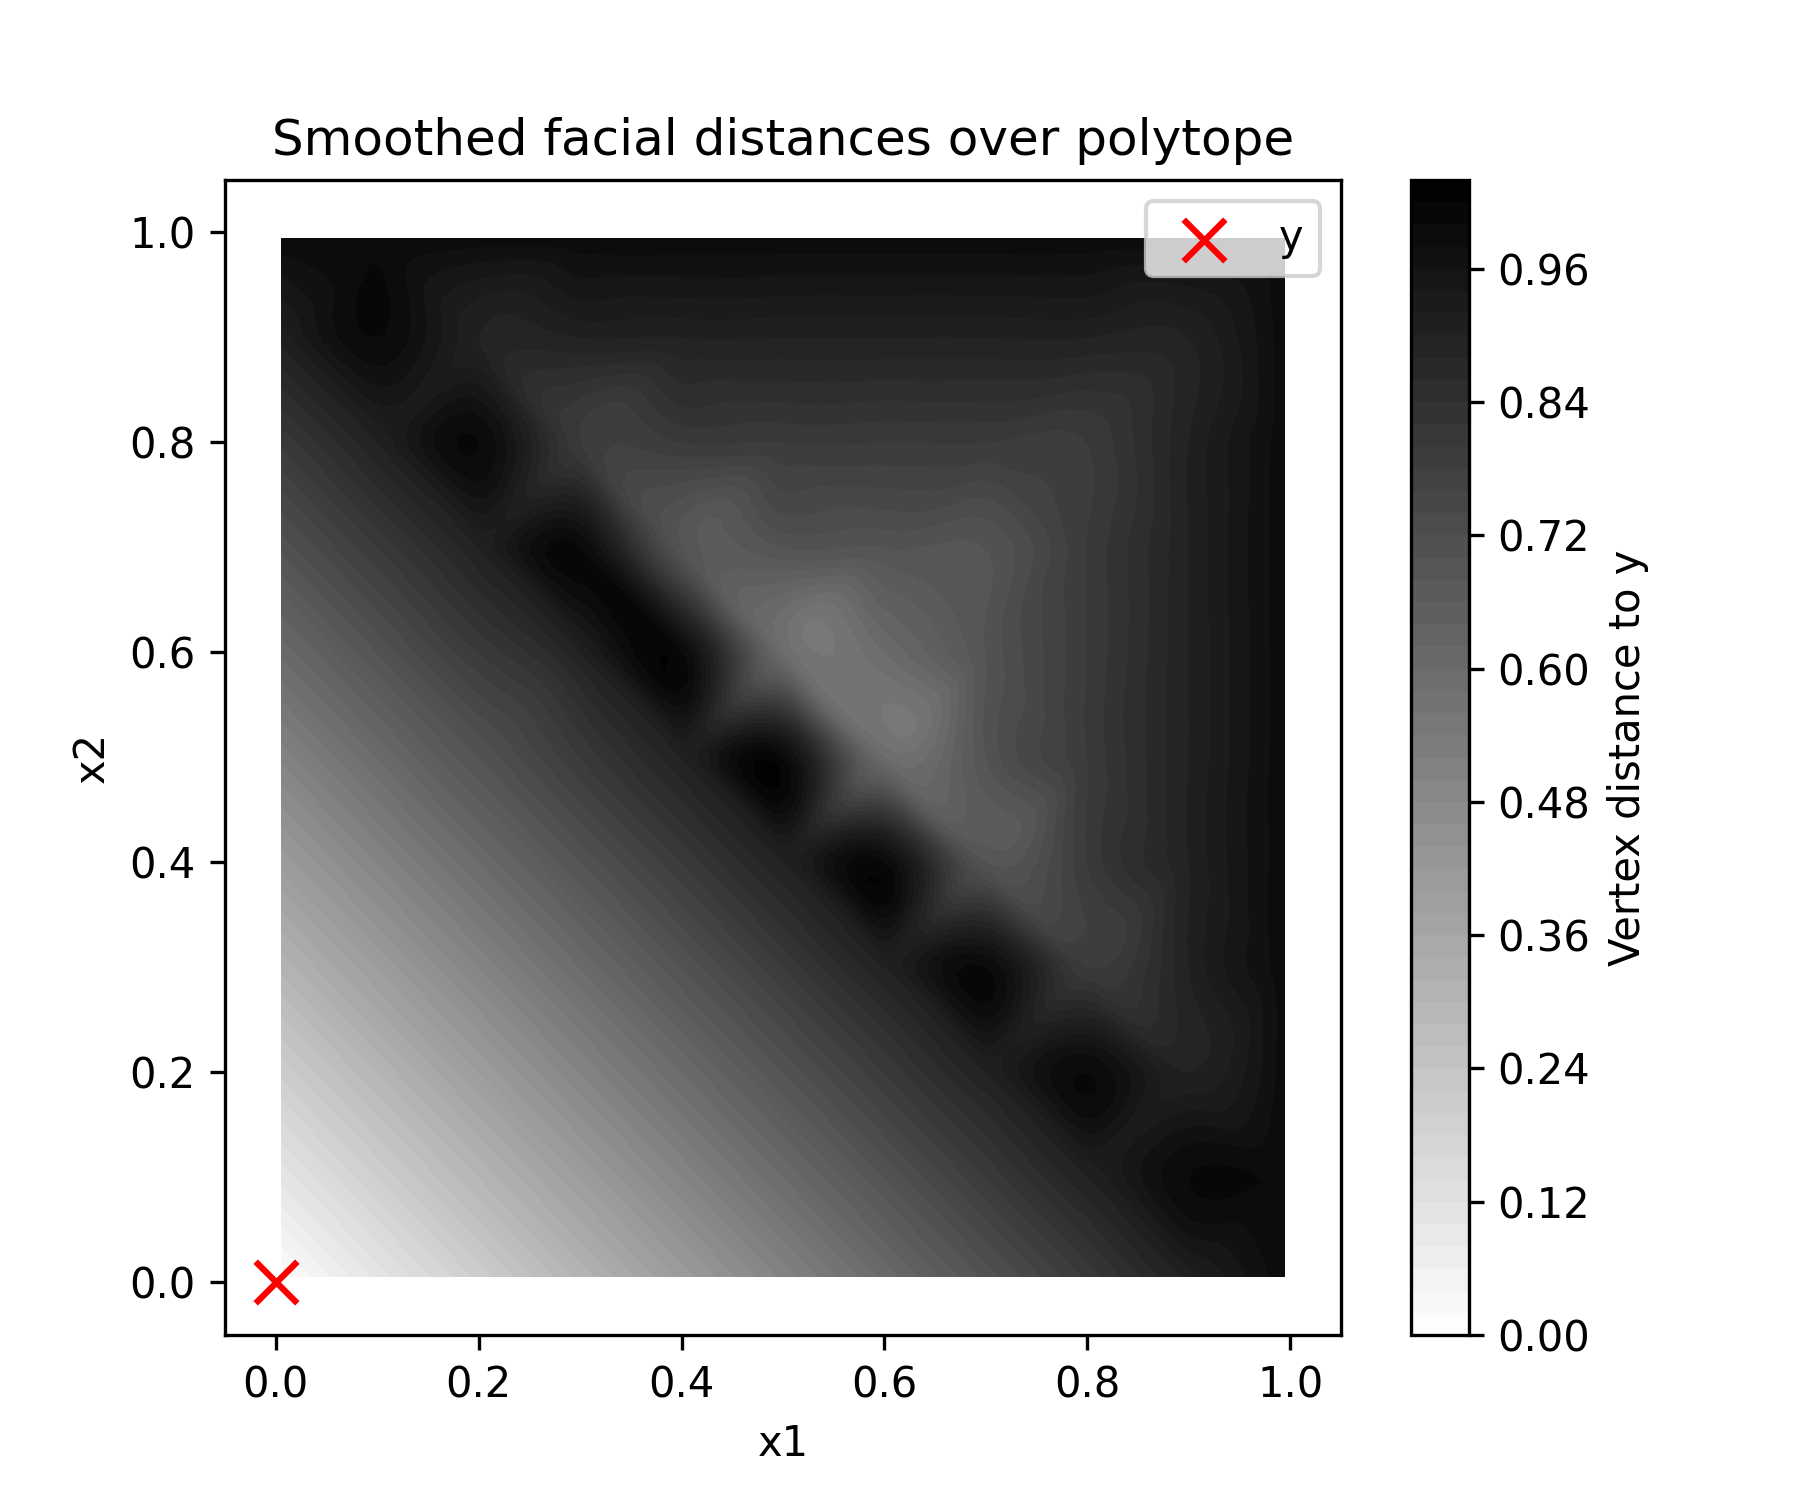
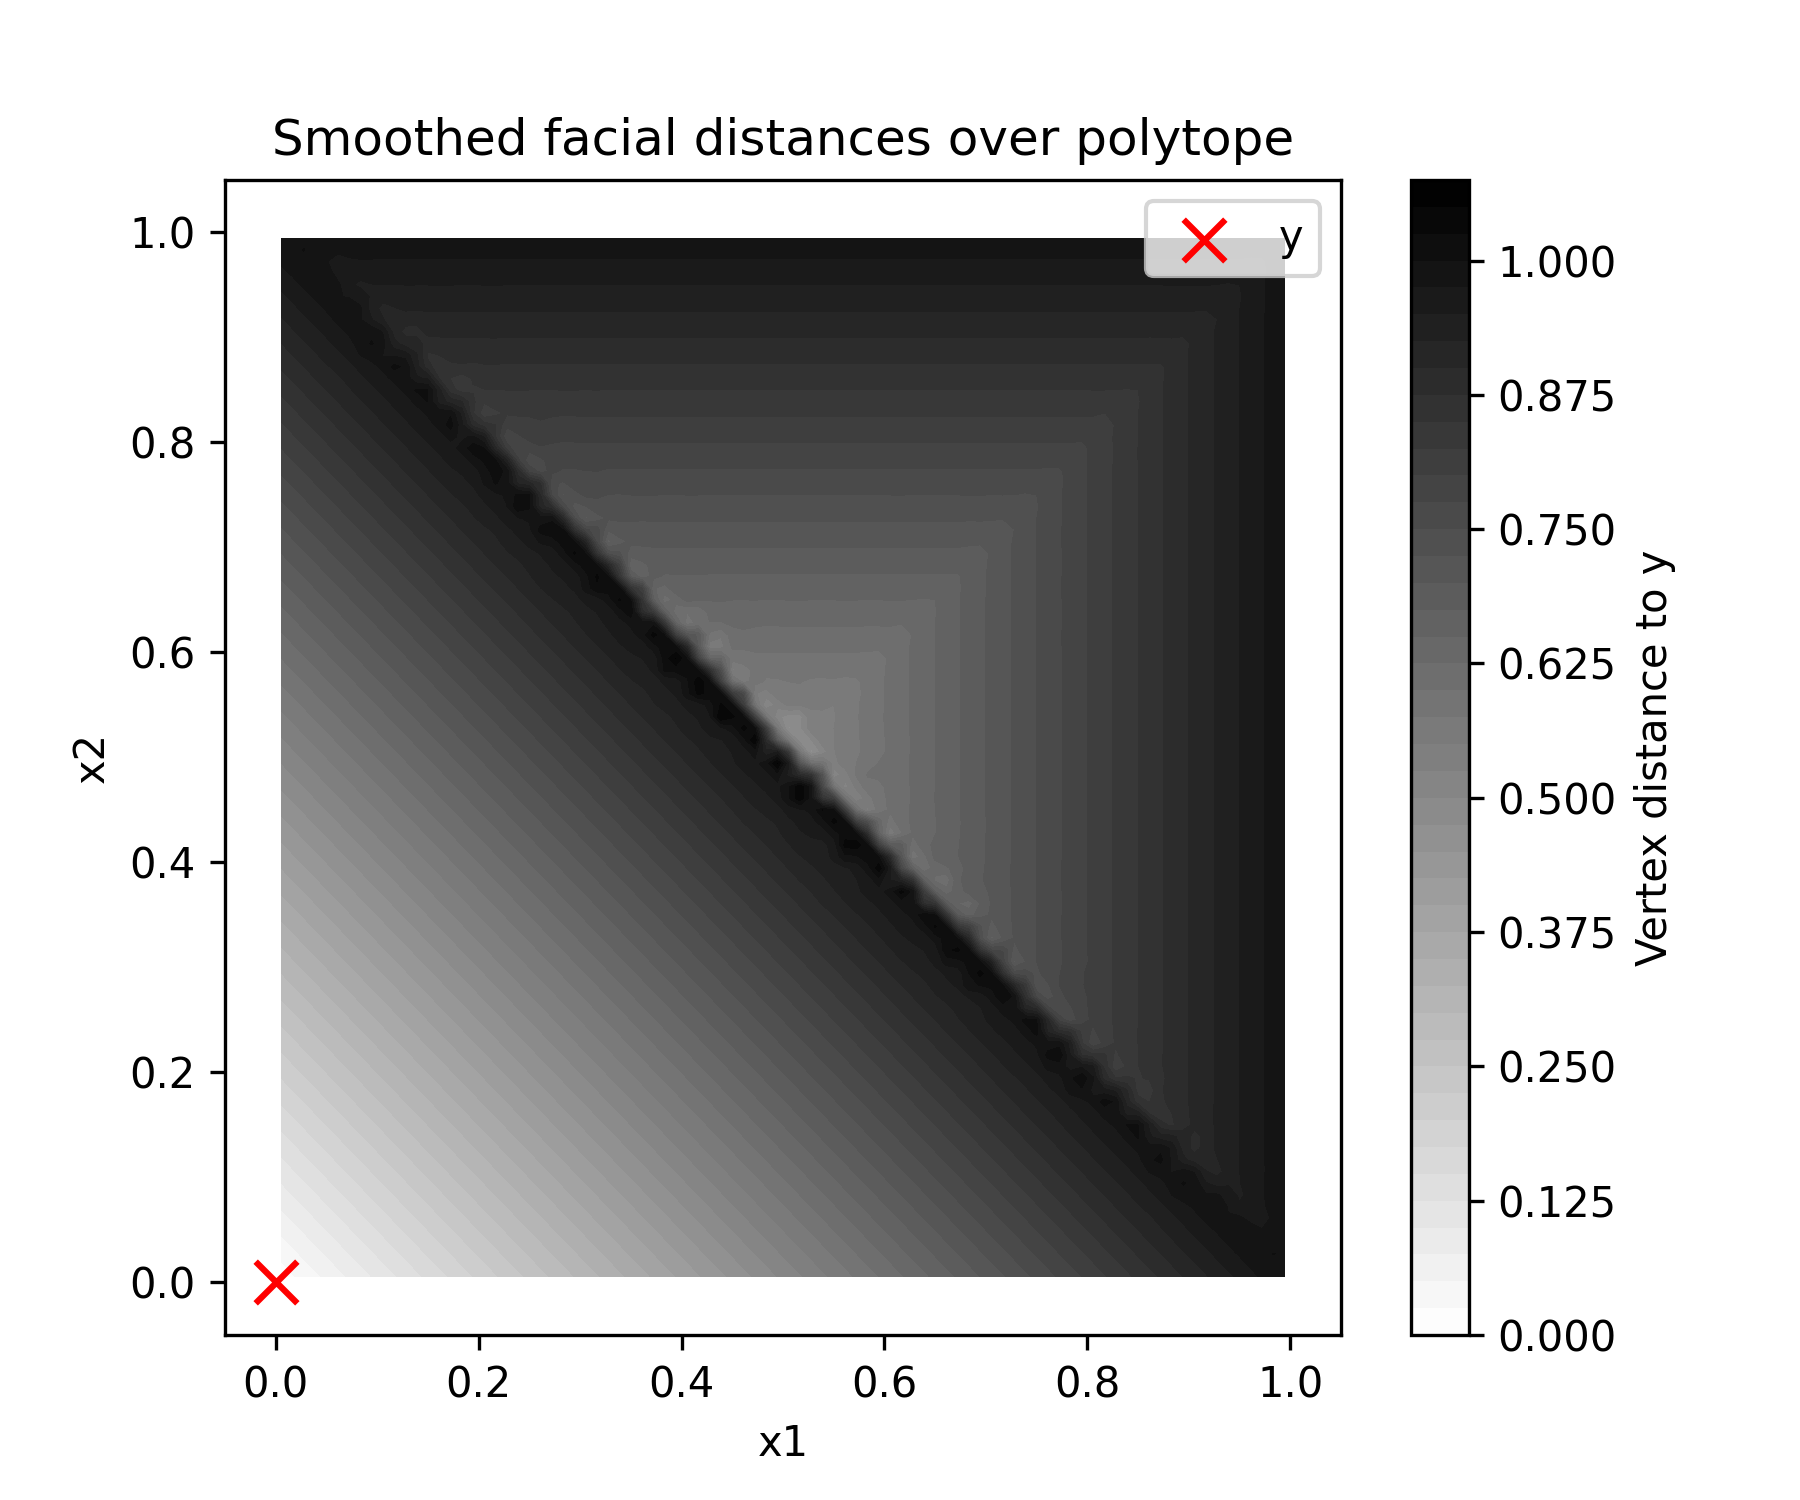
boolean hypercube experiment ready

diff --git a/boolean_hypercube.py b/boolean_hypercube.py
@@ -1,19 +1,20 @@
 import numpy as np
 import sys
 from pathlib import Path
-
-# access the code
 sys.path.append((str(Path.cwd() / "src")))
 from polytope import Polytope
 from plotting_utils import save_plot_and_data_simple, plot_facial_distances_smooth
 
-
+# set up the polytope, columns are vertices
 vertices = np.array([[0, 1, 1, 0],
                     [0, 0, 1, 1]])
 vertices = vertices.astype(np.float32)
 poly = Polytope(vertices)
 
+# define the point y for the vertex distance
 y = np.array([0, 0])
-grid, dists = poly.vertex_distance_grid(y, step=0.1, epsilon=1e-5, tol=1e-7, parallel=True, num_cores=10)
+
+# run the vertex distance computation
+grid, dists = poly.vertex_distance_grid(y, step=0.025, epsilon=1e-5, tol=1e-7, parallel=True, num_cores=10)
 fig = plot_facial_distances_smooth(grid, dists, y)
 save_plot_and_data_simple(fig, vertices, y, name="boolean_hypercube")

diff --git a/README.md b/README.md
@@ -1,20 +1,39 @@
 # Calculus of Facial Distance
 
-This repository contains code to explore facial distances over polytopes. The main example is a 2D Boolean hypercube.
+This repository has been developped to explore facial distances and vertex distances over polytopes. 
 
 ---
 
-## Installation
+## Installation & running a first example
 
-1. **Clone the repository**:
-
-```bash
-git clone <repository-url>
-cd calculus_of_facial_distance
-```
+1. Clone the repository.
 
 2. Create and activate a Python environment:
-```bash
-python -m venv venv_calc_of_fd
-source venv_calc_of_fd/bin/activate      # Linux/macOS
+    ```bash
+    python -m venv venv_calc_of_fd
+    source venv_calc_of_fd/bin/activate      # Linux/macOS
+    # OR
+    venv_calc_of_fd\Scripts\activate         # Windows
+    ```
+3. Install dependencies:
+    ```bash
+    pip install -r requirements.txt
+    ```
+4. Run the following code:
+    ```bash
+    python boolean_hypercube.py
+    ```
+    This creates results in `results`.
+
+## Repository structure
+
+```
+.
+├── boolean_hypercube.py        # Main example script
+├── src/
+│   ├── plotting_utils.py       # Plotting helper functions
+│   └── polytope.py             # Polytope computations
+├── results/                    # Saved plots and data
+├── requirements.txt            # Python dependencies
+└── README.md
 ```
